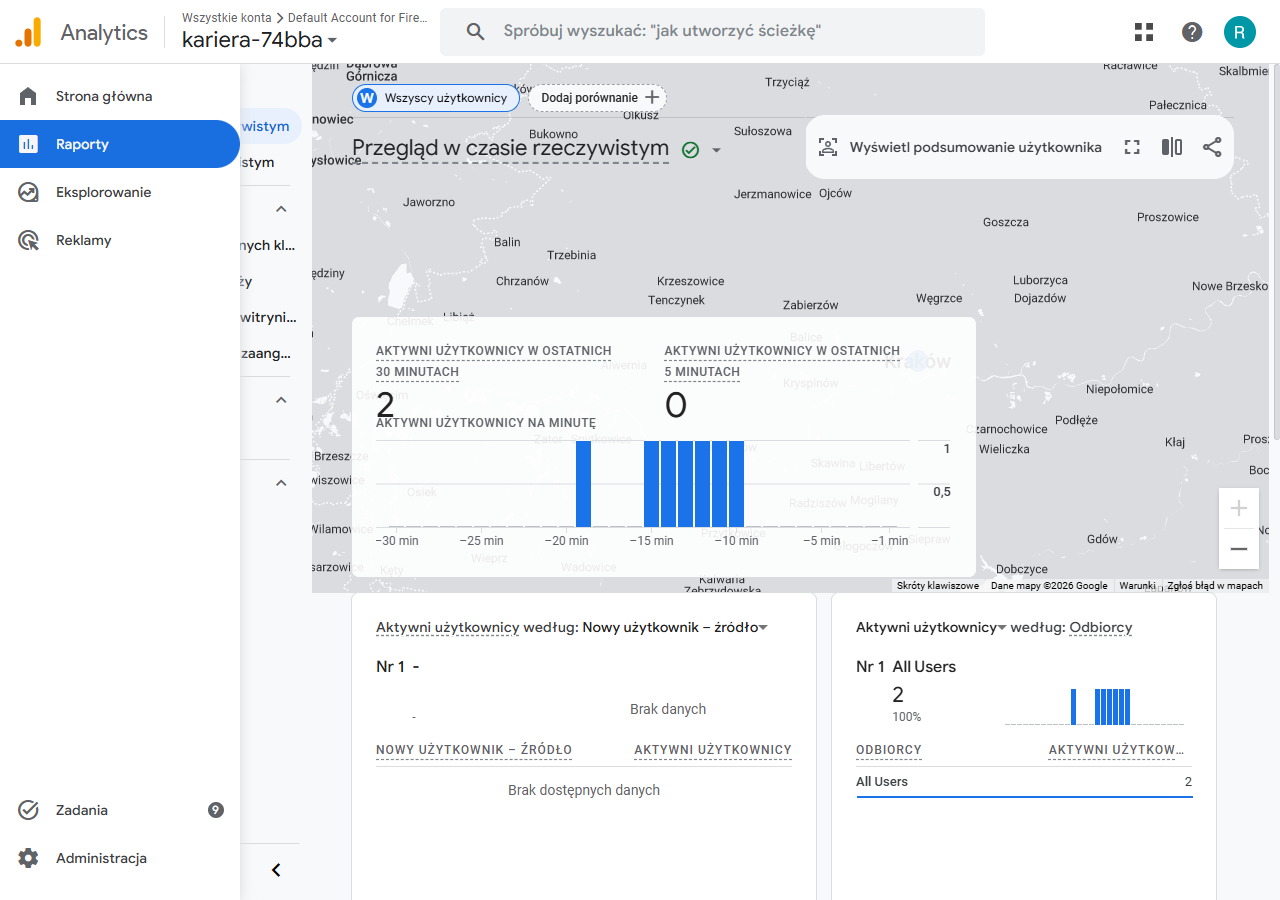
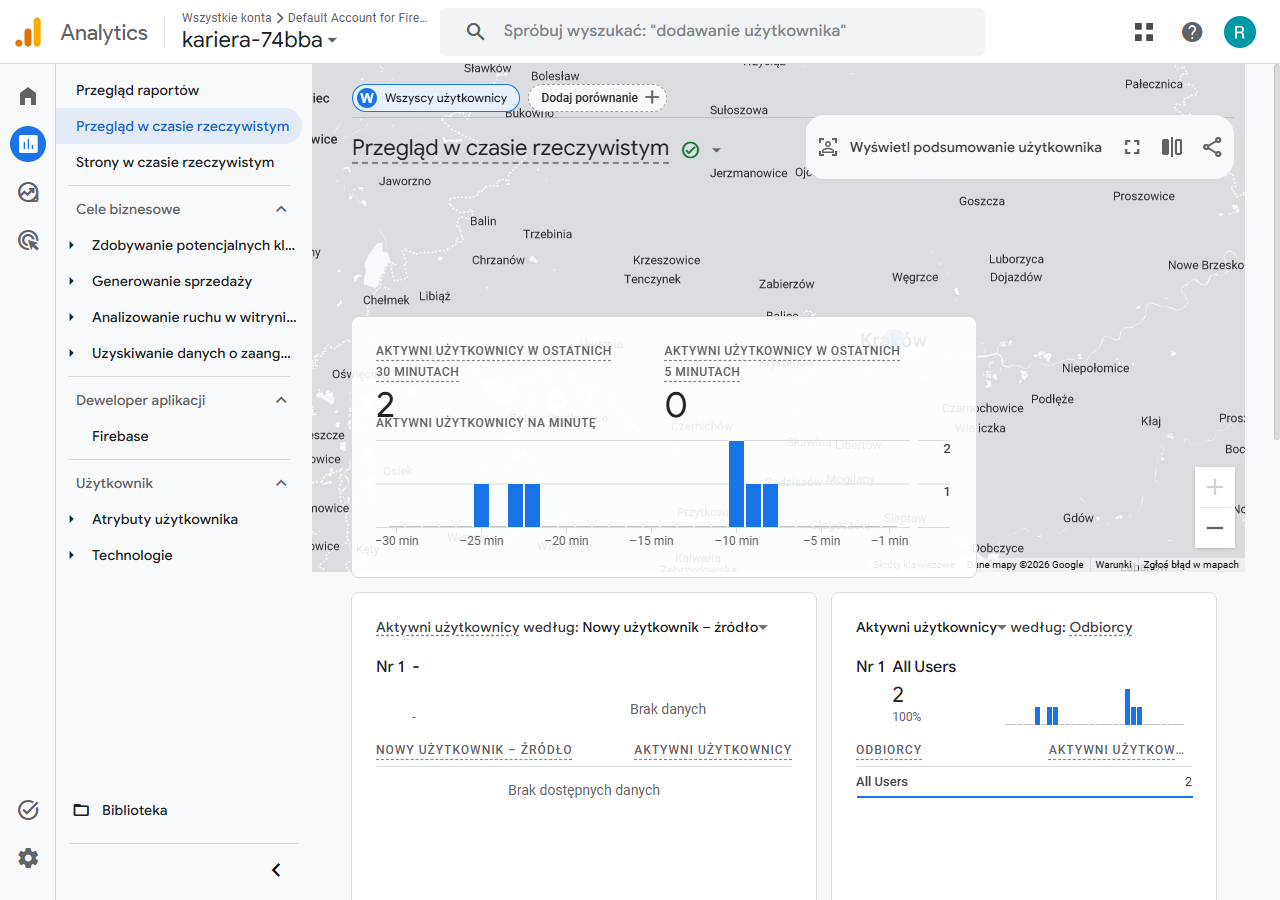
docs: GA realtime pages report screenshot, refreshed analytics screenshots

diff --git a/README.md b/README.md
@@ -29,7 +29,7 @@ rozmowy kwalifikacyjne i statystyki w jednym miejscu.
 - 📋 **Moje aplikacje** — karty aplikacji o pracę z pełnym CRUD (kreator 3-krokowy, edycja, usuwanie z potwierdzeniem)
 - 📊 **Dashboard** — statystyki, ostatnia aktywność, nadchodzące rozmowy
 - 📈 **Analityka** — pipeline rekrutacyjny, trendy, ranking firm
-- 📅 **Kalendarz** — widok miesiąca z zaplanowanymi rozmowami
+- 📅 **Kalendarz** — widoki miesiąca, tygodnia (siatka godzinowa) i dnia z zaplanowanymi rozmowami
 - ⚙ **Ustawienia** — profil i preferencje poszukiwania pracy
 - 📄 **Raport** — raport wyników z eksportem do PDF
 - 🔐 **Logowanie Firebase** — email/hasło + Google, chronione trasy
@@ -238,6 +238,11 @@ Aplikacja raportuje pageview przy każdej zmianie trasy (SPA) do property GA4 (`
 Widok "Przegląd w czasie rzeczywistym" z panelu GA4 podczas sesji użytkowników na wersji produkcyjnej:
 
 ![GA4 Realtime](docs/screenshots/ga-realtime.png)
+
+Raport "Strony w czasie rzeczywistym" — widoczne poszczególne trasy aplikacji (`/dashboard`, `/calendar`,
+`/analytics`, `/applications`, `/report`) raportowane przy nawigacji SPA bez przeładowania strony:
+
+![GA4 Realtime Pages](docs/screenshots/ga-realtime-pages.png)
 
 ## Hotjar / Contentsquare
 
